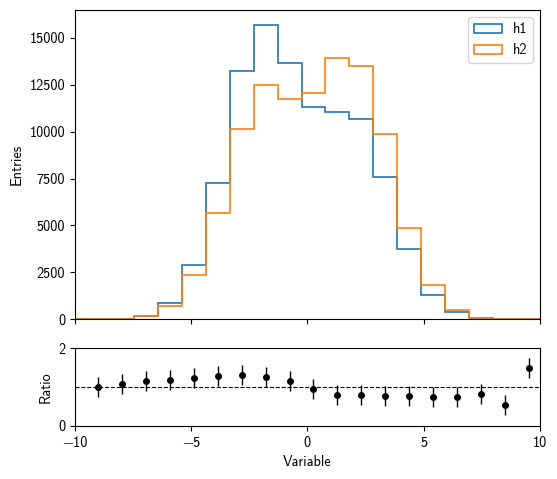
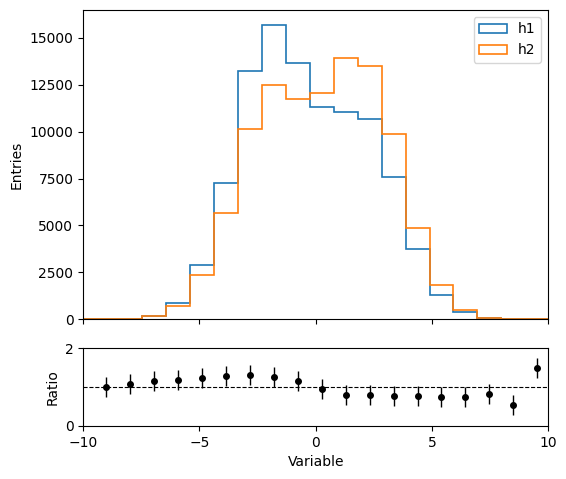
test: set default font family in matplotlib style and update CI

diff --git a/tests/test_examples_utility.py b/tests/test_examples_utility.py
@@ -18,7 +18,8 @@ mpl_image_compare_kwargs = {
 }
 
 mpl_image_compare_for_default_matplotlib_kwargs = mpl_image_compare_kwargs.copy()
-mpl_image_compare_for_default_matplotlib_kwargs["style"] = "classic"
+mpl_image_compare_for_default_matplotlib_kwargs["style"] = "default"
+mpl_image_compare_for_default_matplotlib_kwargs["font.family"] = "DejaVu Sans"
 
 script_dir = Path(plothist.__file__).parent / "examples" / "utility"
 

diff --git a/src/plothist/examples/utility/matplotlib_vs_plothist_style.py b/src/plothist/examples/utility/matplotlib_vs_plothist_style.py
@@ -16,6 +16,7 @@ figs = []
 for style in ["matplotlib", "plothist"]:
     if style == "matplotlib":
         plt.style.use("default")
+        plt.rcParams["font.family"] = "DejaVu Sans"
     else:
         # No need to set the style if we use plothist, just importing it is enough
         # Here we set the style because the matplotlib style was set before
